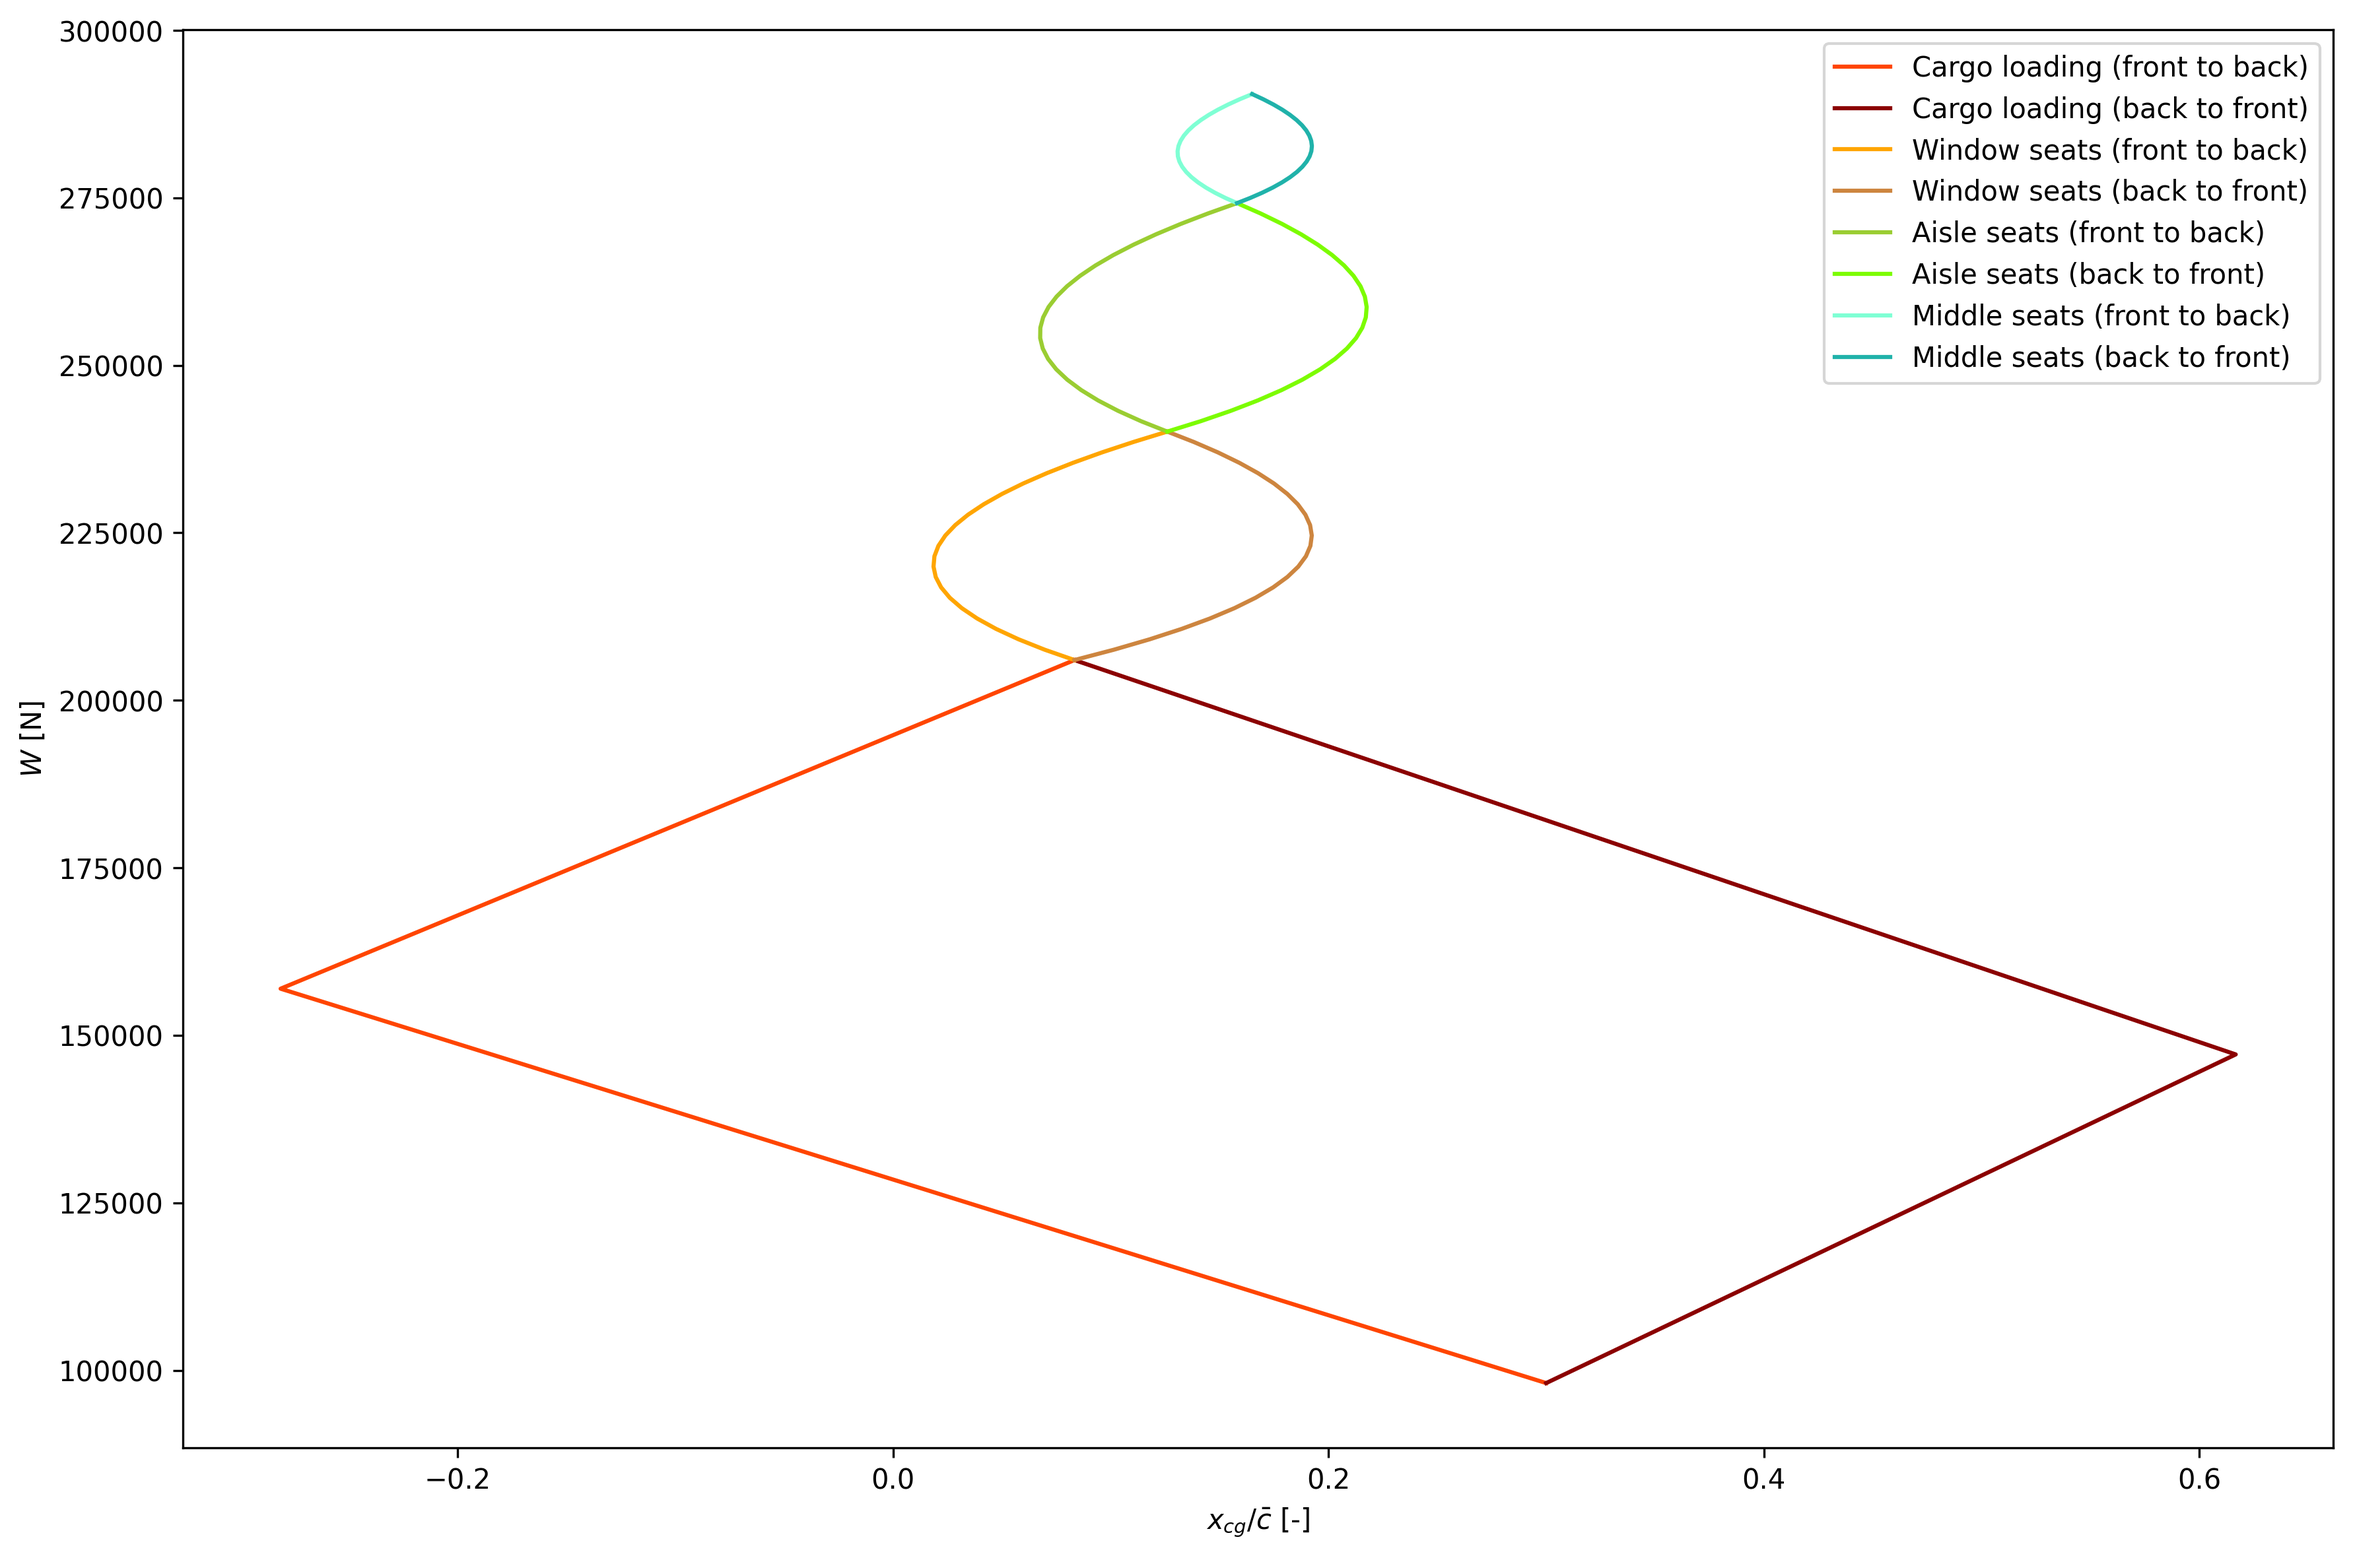
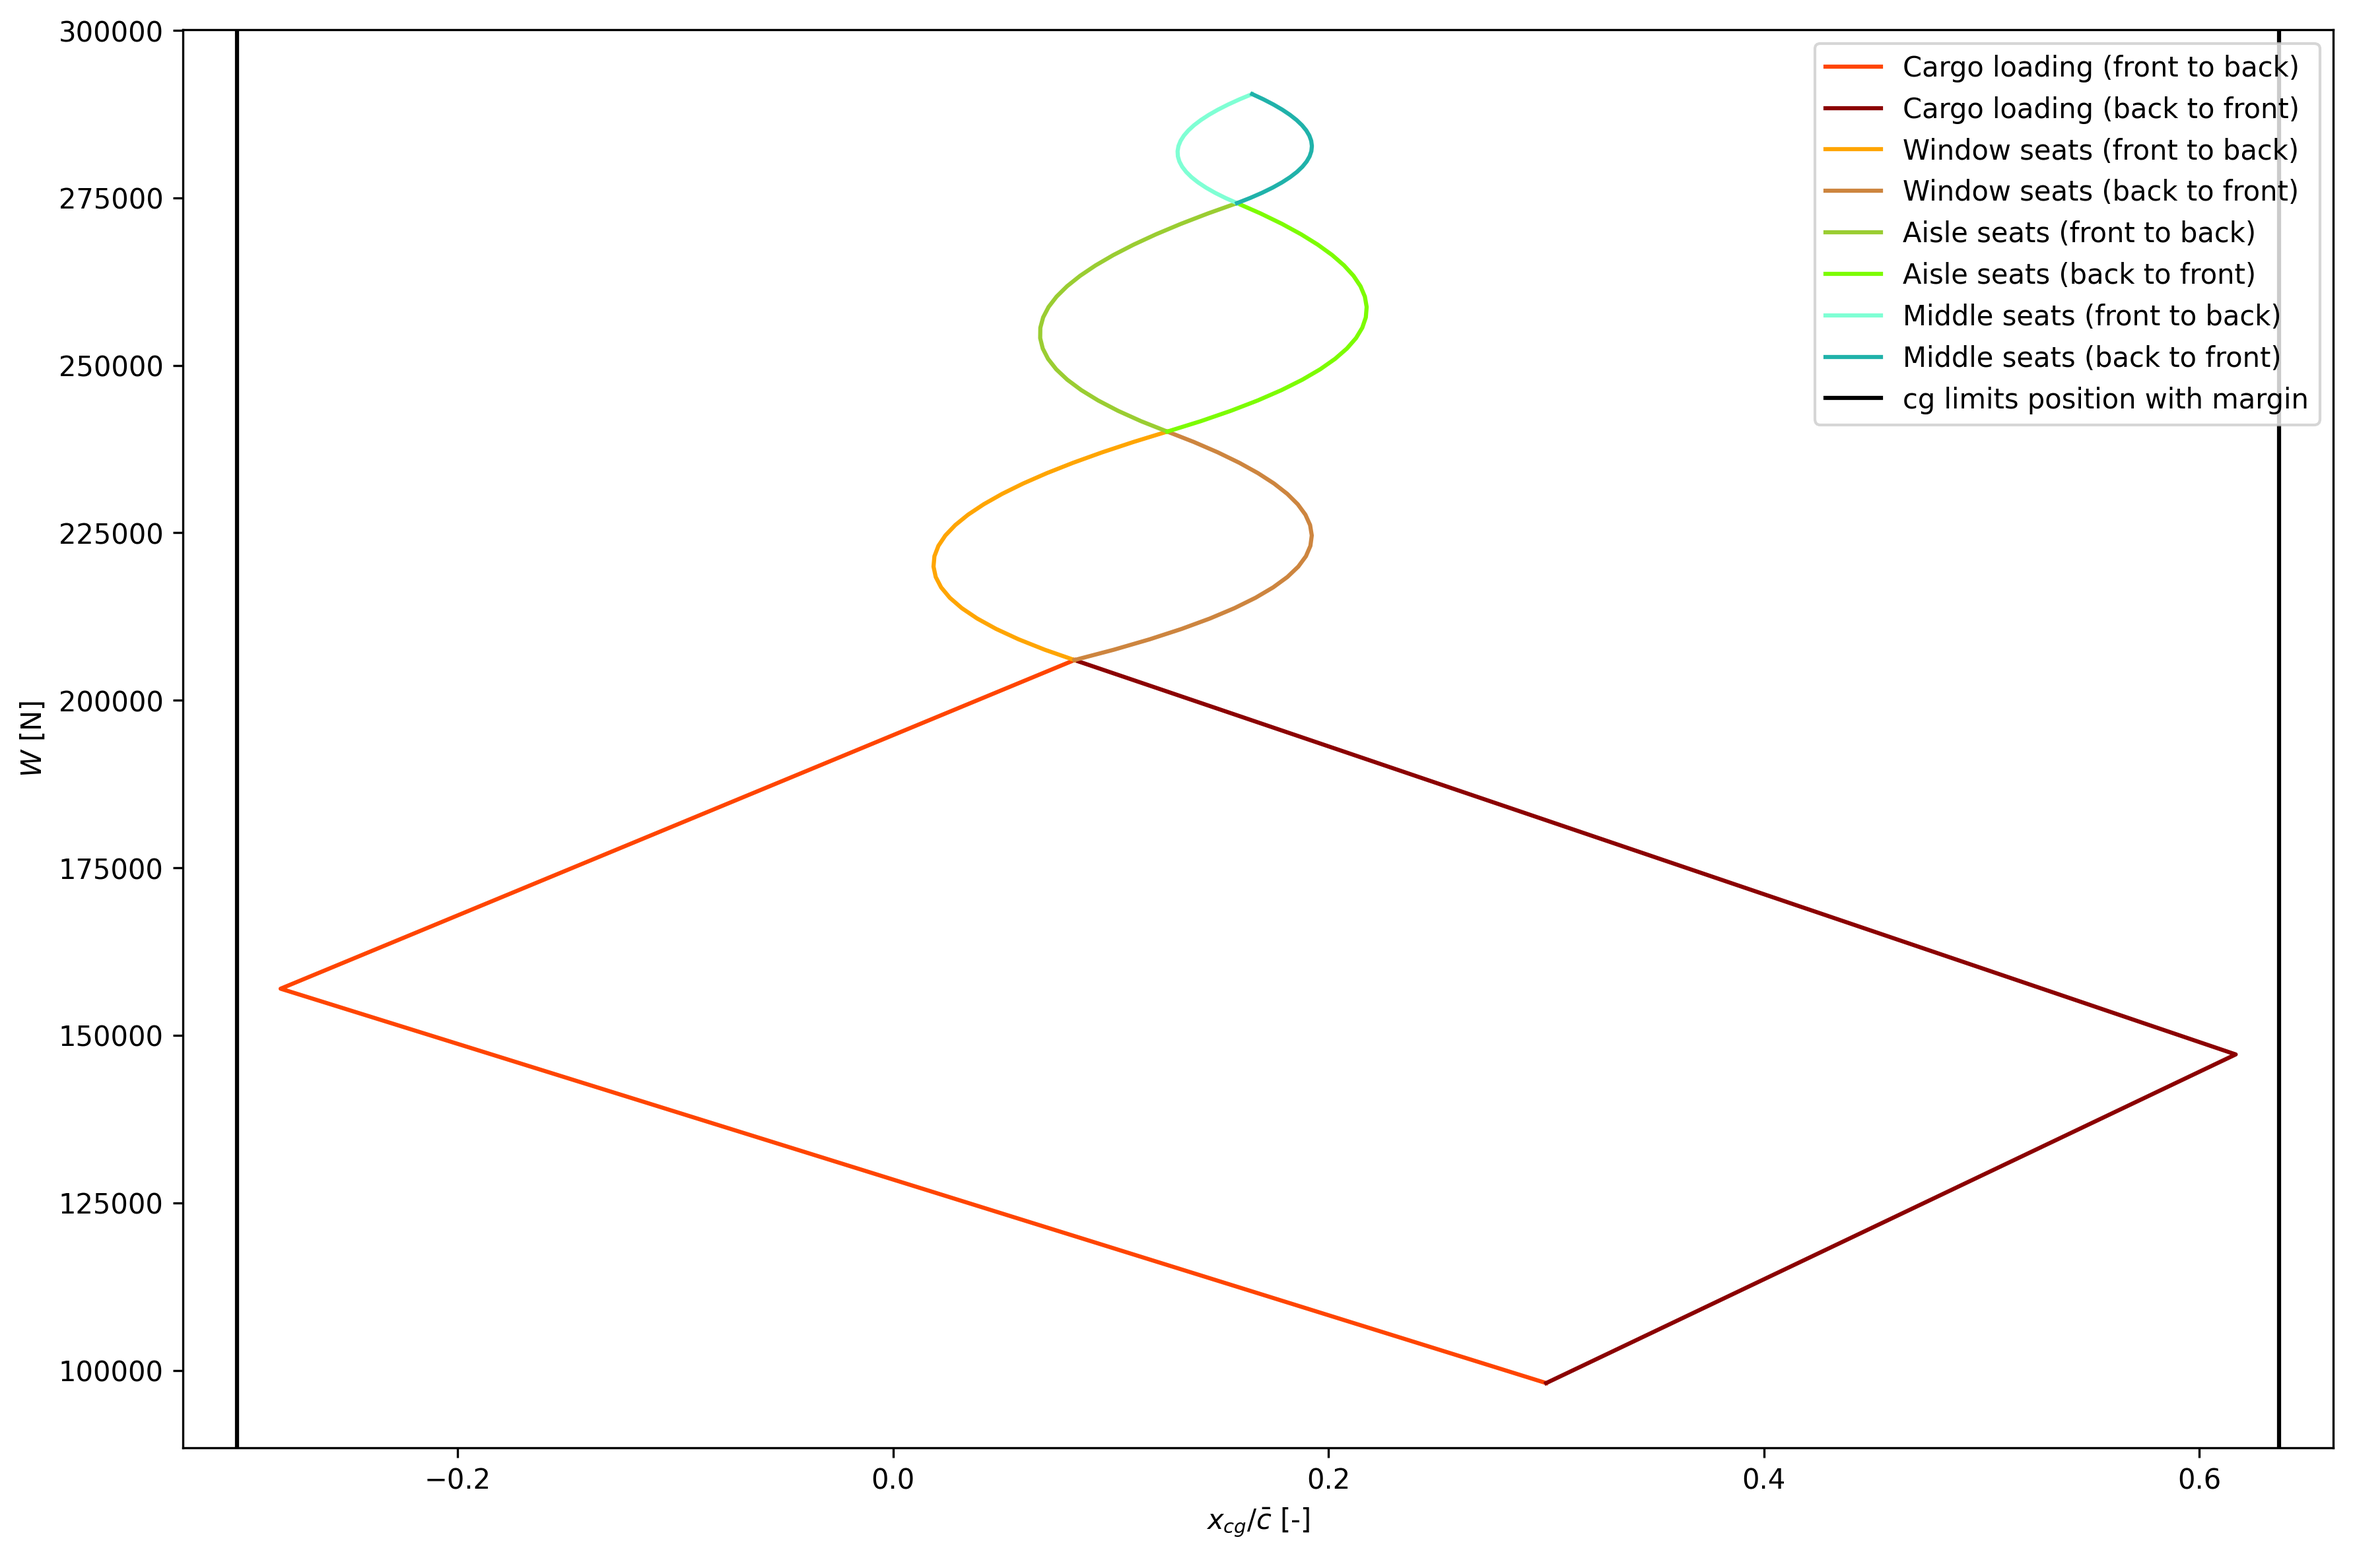
add limits

Changed region(s): [[0.7786, 0.0309, 0.9966, 0.2783]]

diff --git a/loading_diagram.py b/loading_diagram.py
@@ -3,31 +3,31 @@ from constants import G
 import matplotlib.pyplot as plt
 
 
-def add_cargo(ax, start_weight, start_cg, front_cargo_location, back_cargo_location, front_cargo, back_cargo):
+def add_cargo(ax, start_weight, start_cg, front_cargo_position, back_cargo_position, front_cargo, back_cargo):
     full_cargo_weight = start_weight + front_cargo + back_cargo
     full_cargo_cg = (
         start_weight * start_cg
-        + front_cargo * front_cargo_location
-        + back_cargo * back_cargo_location
+        + front_cargo * front_cargo_position
+        + back_cargo * back_cargo_position
     ) / (full_cargo_weight)
     front_cgs = [
         start_cg,
-        (start_weight * start_cg + front_cargo * front_cargo_location) / (start_weight + front_cargo),
+        (start_weight * start_cg + front_cargo * front_cargo_position) / (start_weight + front_cargo),
         full_cargo_cg,
     ]
     front_weights = [start_weight, start_weight + front_cargo, full_cargo_weight]
     back_cgs = [
         start_cg,
-        (start_weight * start_cg + back_cargo * back_cargo_location) / (start_weight + back_cargo),
+        (start_weight * start_cg + back_cargo * back_cargo_position) / (start_weight + back_cargo),
         full_cargo_cg,
     ]
     back_weights = [start_weight, start_weight + back_cargo, full_cargo_weight]
     ax.plot(front_cgs, front_weights, "orangered", label="Cargo loading (front to back)")
     ax.plot(back_cgs, back_weights, "darkred", label="Cargo loading (back to front)")
-    return full_cargo_cg, full_cargo_weight
+    return full_cargo_weight, full_cargo_cg, {start_cg, full_cargo_cg, *front_cgs, *back_cgs}
 
 
-def add_pax(ax, num_pax, pax_weight, first_row_position, seat_pitch, start_cg, start_weight):
+def add_pax(ax, start_weight, start_cg, num_pax, pax_weight, first_row_position, seat_pitch):
     num_full_rows, num_last_row = divmod(num_pax, 5)
     has_extra_row = num_last_row != 0
     last_row_position = first_row_position + (num_full_rows - 1) * seat_pitch
@@ -123,6 +123,7 @@ def add_pax(ax, num_pax, pax_weight, first_row_position, seat_pitch, start_cg, s
     ax.plot(cgs_middle_back_to_front, weights_middle, c="lightseagreen", label="Middle seats (back to front)")
 
     return (
+        start_weight + num_pax * pax_weight,
         (
             start_weight * start_cg
             + pax_weight * (
@@ -130,59 +131,88 @@ def add_pax(ax, num_pax, pax_weight, first_row_position, seat_pitch, start_cg, s
                 + (num_full_rows) * ((num_full_rows-1)/2 * seat_pitch + first_row_position)
             )
         ) / (start_weight + num_pax * pax_weight),
-        start_weight + num_pax * pax_weight
+        {
+            start_cg, *cgs_windows_front_to_back, *cgs_windows_back_to_front, *cgs_aisles_front_to_back, 
+            *cgs_aisles_back_to_front, *cgs_middle_front_to_back, *cgs_middle_back_to_front
+        }
     )
 
 
-def add_fuel():
-    pass
+def add_fuel(ax, start_weight, start_cg, load_wing_tank_first, wing_tank_capacity, center_tank_capacity, wing_tank_position, center_tank_position, fuel_load):
+    if load_wing_tank_first:
+        pass
+
+    return 1, 2, {start_cg}
 
 
 def generate_loading_diagram(
-    filename, show_legend, cargo_first, OEW_kg, xcg_oew, x_LEMAC_m, MAC_m, front_cargo_location_m,
-    back_cargo_location_m, front_cargo_kg, back_cargo_kg, num_pax, pax_kg, first_row_position_m, seat_pitch_in
+    filename, show_legend, cargo_first, OEW_kg, xcg_oew, x_LEMAC_m, MAC_m, front_cargo_position_m,
+    back_cargo_position_m, front_cargo_kg, back_cargo_kg, num_pax, pax_kg, first_row_position_m, seat_pitch_in,
+    load_wing_tank_first, wing_tank_capacity_kg, center_tank_capacity_kg, wing_tank_position_mac,
+    center_tank_position_mac, fuel_load_kg
 ):
     fig, ax = plt.subplots(figsize=(12, 8))
     OEW = OEW_kg * G  # convert to [N]
+    all_cgs = {xcg_oew}
 
     if cargo_first:
-        after_cargo_cg, after_cargo_weight = add_cargo(
+        after_cargo_weight, after_cargo_cg, cargo_cgs = add_cargo(
             ax,
             OEW,
             xcg_oew,
-            (front_cargo_location_m - x_LEMAC_m) / MAC_m,
-            (back_cargo_location_m - x_LEMAC_m) / MAC_m,
+            (front_cargo_position_m - x_LEMAC_m) / MAC_m,
+            (back_cargo_position_m - x_LEMAC_m) / MAC_m,
             front_cargo_kg * G,
             back_cargo_kg * G,
         )
-        after_cargo_and_pax_cg, after_cargo_and_pax_weight = add_pax(
+        after_cargo_and_pax_weight, after_cargo_and_pax_cg, pax_cgs = add_pax(
             ax,
+            after_cargo_weight,
+            after_cargo_cg,
             num_pax,
             pax_kg * G,
             (first_row_position_m - x_LEMAC_m) / MAC_m,
             (seat_pitch_in * 0.0254) / MAC_m,
-            after_cargo_cg,
-            after_cargo_weight,
         )
     else:
-        after_pax_cg, after_pax_weight = add_pax(
+        after_pax_weight, after_pax_cg, pax_cgs = add_pax(
             ax,
+            OEW,
+            xcg_oew,
             num_pax,
             pax_kg * G,
             (first_row_position_m - x_LEMAC_m) / MAC_m,
             (seat_pitch_in * 0.0254) / MAC_m,
-            xcg_oew,
-            OEW
         )
-        after_cargo_and_pax_cg, after_cargo_and_pax_weight = add_cargo(
+        after_cargo_and_pax_weight, after_cargo_and_pax_cg, cargo_cgs = add_cargo(
             ax,
             after_pax_weight,
             after_pax_cg,
-            (front_cargo_location_m - x_LEMAC_m) / MAC_m,
-            (back_cargo_location_m - x_LEMAC_m) / MAC_m,
+            (front_cargo_position_m - x_LEMAC_m) / MAC_m,
+            (back_cargo_position_m - x_LEMAC_m) / MAC_m,
             front_cargo_kg * G,
             back_cargo_kg * G,
         )
+    
+    after_fuel_weight, after_fuel_cg, fuel_cgs = add_fuel(
+        ax,
+        after_cargo_and_pax_weight,
+        after_cargo_and_pax_cg,
+        load_wing_tank_first,
+        wing_tank_capacity_kg * G,
+        center_tank_capacity_kg * G,
+        wing_tank_position_mac,
+        center_tank_position_mac,
+        fuel_load_kg * G
+    )
+    
+    # final cg bounds
+    all_cgs.update(cargo_cgs, pax_cgs, fuel_cgs)
+    cg_margin = 0.02  # cg margin, in % MAC
+    lower_limit = min(all_cgs) - cg_margin
+    upper_limit = max(all_cgs) + cg_margin
+    ax.axvline(lower_limit, c="k", label="cg limits position with margin")
+    ax.axvline(upper_limit, c="k")  # yes this has no label, but they're both black lines
 
     if show_legend:
         ax.legend()
@@ -195,20 +225,26 @@ def generate_loading_diagram(
 
 if __name__ == "__main__":
     full_payload_config = {
-        "filename": "full_payload_config",  # filename to save to
-        "show_legend": True,                # whether to display the legend
-        "cargo_first": True,                # whether to load cargo first (True) or passengers (False)
-        "x_LEMAC_m": 15,                    # position of the MAC from the nose, in [m]
-        "MAC_m": 4,                         # MAC, in [m]
-        "OEW_kg": 10_000,                   # OEW, in [kg]
-        "xcg_oew": 0.3,                     # xcg of the OEW, in % MAC [-]
-        "front_cargo_location_m": 10,       # xcg of the front cargo hold, from the nose in [m]
-        "back_cargo_location_m": 20,        # xcg of the back cargo hold, from the nose in [m]
-        "front_cargo_kg": 6000,             # weight of the front cargo, in [kg]
-        "back_cargo_kg": 5000,              # weight of the back cargo, in [kg]
-        "num_pax": 109,                     # number of passengers [-]
-        "pax_kg": 79,                       # weight of each passenger, in [kg]
-        "first_row_position_m": 8,          # position of the first row, from the nose in [m]
-        "seat_pitch_in": 32,                # seat pitch, in [in]
+        "filename": "full_payload_config",        # filename to save to
+        "show_legend": True,                      # whether to display the legend
+        "cargo_first": True,                      # whether to load cargo first (True) or passengers (False)
+        "x_LEMAC_m": 15,                          # position of the MAC from the nose, in [m]
+        "MAC_m": 4,                               # MAC, in [m]
+        "OEW_kg": 10_000,                         # OEW, in [kg]
+        "xcg_oew": 0.3,                           # xcg of the OEW, in % MAC [-]
+        "front_cargo_position_m": 10,             # xcg of the front cargo hold, from the nose in [m]
+        "back_cargo_position_m": 20,              # xcg of the back cargo hold, from the nose in [m]
+        "front_cargo_kg": 6000,                   # weight of the front cargo, in [kg]
+        "back_cargo_kg": 5000,                    # weight of the back cargo, in [kg]
+        "num_pax": 109,                           # number of passengers [-]
+        "pax_kg": 79,                             # weight of each passenger, in [kg]
+        "first_row_position_m": 8,                # position of the first row, from the nose in [m]
+        "seat_pitch_in": 32,                      # seat pitch, in [in]
+        "load_wing_tank_first": True,             # whether to load the wing tank first (True), or the center tank (False)
+        "wing_tank_capacity_kg": 7000,            # capacity of both wing tanks, in [kg] of fuel
+        "center_tank_capacity_kg": 3000,          # capacity of the center tank, in [kg] of fuel
+        "wing_tank_position_mac": 0.6,            # wing tank cg, in % MAC from LEMAC [-]
+        "center_tank_position_mac": 0.4,          # center tank cg, in % MAC from LEMAC [-]
+        "fuel_load_kg": 9000,                     # total fuel load, in [kg]
     }
     generate_loading_diagram(**full_payload_config)
